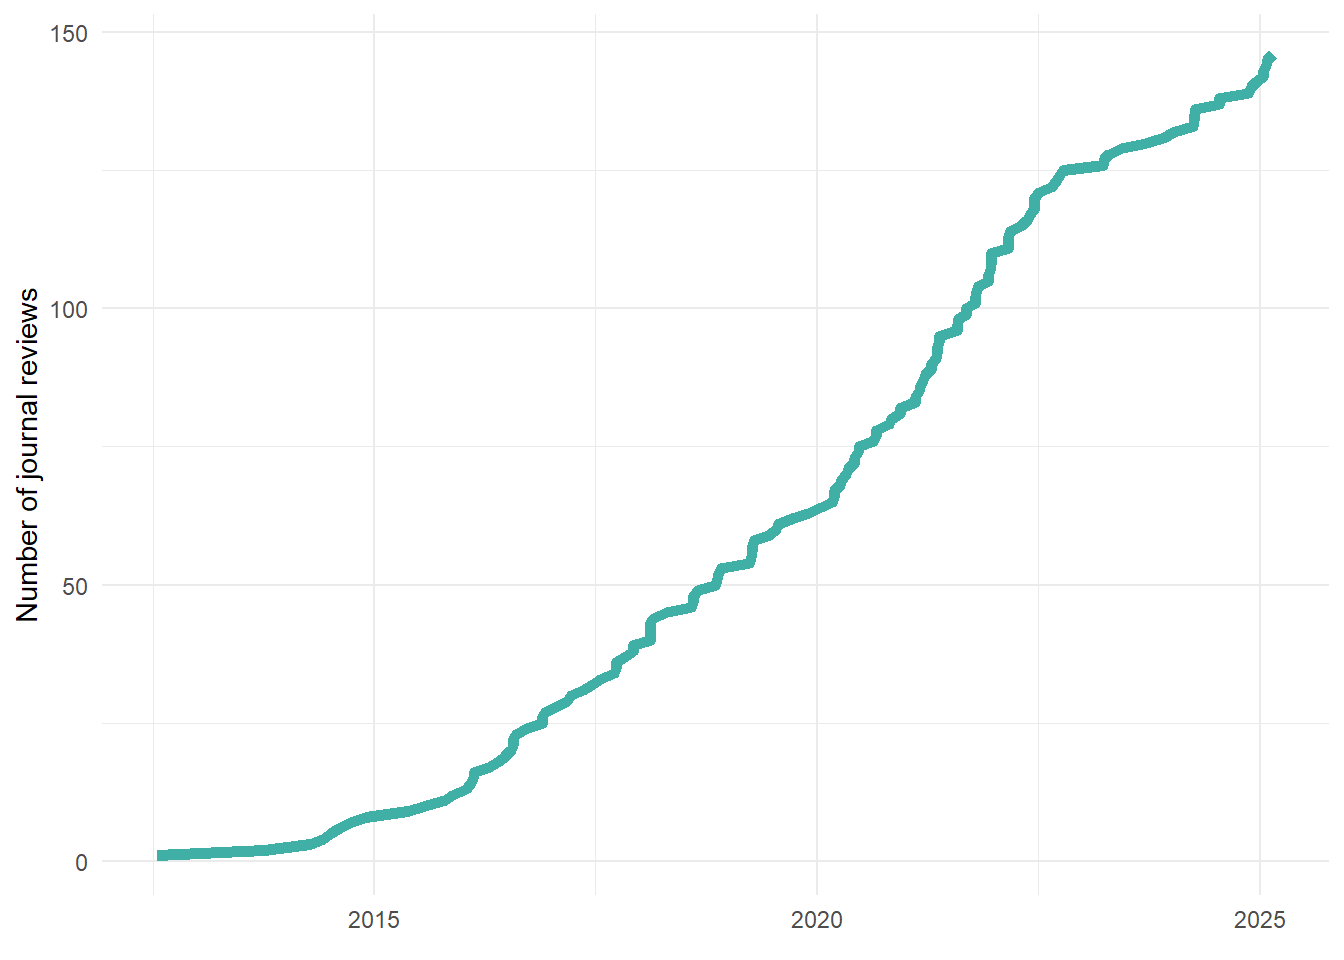
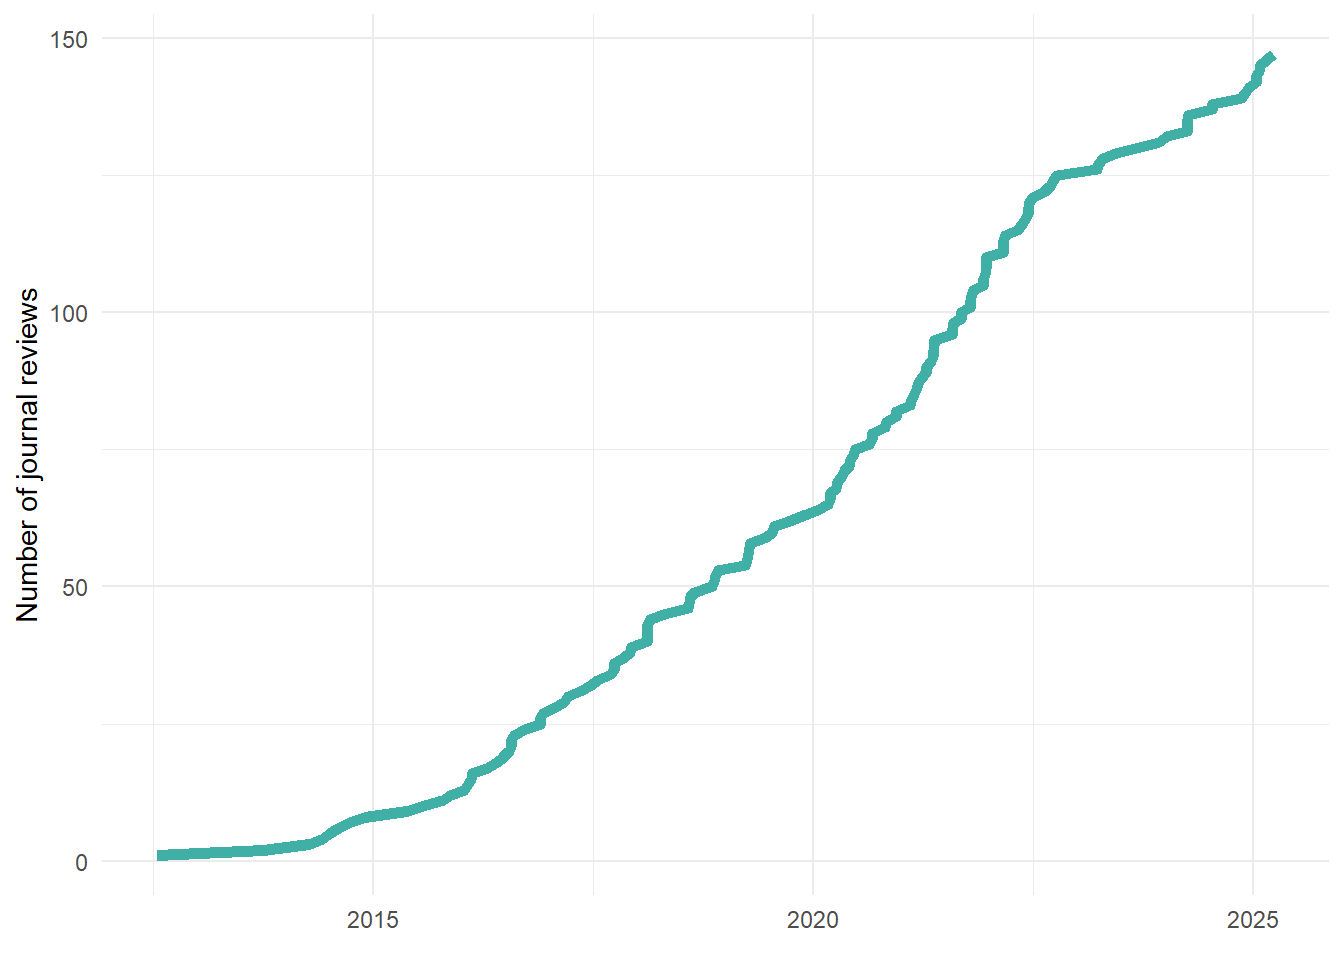
Reviews

diff --git a/content/other/review/posta18478fd4f6.tmp.html b/content/other/review/posta18478fd4f6.tmp.html
@@ -1,0 +1,15 @@
+<p>Like many academics, I spend some of my time reviewing submissions for academic journals, publishers, and funding bodies. I also like measuring things and keeping track of them, even if there’s no point in doing so.<a href="#fn1" class="footnote-ref" id="fnref1"><sup>1</sup></a> I think it can be useful to share this sort of information – no one really knows how much reviewing other people do, which makes it hard to know if you are doing a lot or a little of something. I have no idea if I do more or less reviewing than most people in my field – I know some who do more, but other who do less. In any case, here is a brief record of the reviews I have done during my career.</p>
+<p>I reviewed my first paper for a journal in 2012, and since then I have reviewed 147 submissions for 48 different journals. That works out as about 11.6 reviews per year since I started reviewing, and 16.1 per year in the last five years.</p>
+<p>Here’s a plot of how many reviews I’ve done over time:</p>
+<p><img src="index_files/figure-html/unnamed-chunk-2-1.png" width="672" /></p>
+<p>And here are the ten journals I’ve reviewed for the most:</p>
+<p><img src="index_files/figure-html/unnamed-chunk-3-1.png" width="672" /></p>
+<p>I’ve also reviewed seven book proposals for four different publishers, and six grant proposals for four different funding bodies.</p>
+<p>I’m almost always happy to review things if they are related to something I know about, so if you’re an editor looking for someone to review something, please <a href="/contact/">get in touch</a> – especially if you work in publishing and will give me free books in return for a review. I love books.<a href="#fn2" class="footnote-ref" id="fnref2"><sup>2</sup></a></p>
+<div class="footnotes footnotes-end-of-document">
+<hr />
+<ol>
+<li id="fn1"><p>See also: keeping track of various metrics on my smart watch and my <a href="https://www.vivino.com/users/chris.prosser" target="_blank">700+ wine ratings on Vivino </a>. <br><br>When my eldest daughter was born I kept track of things like feeding, naps, and sleep. Once I had enough data I tried to do some analysis to see what factors led to more sleep. Unfortunately it turns out babies are entirely random processes.<a href="#fnref1" class="footnote-back">↩</a></p></li>
+<li id="fn2"><p>I worked in a bookshop for five years while I was a student, which has left me with the habit of buying more books than I will ever have time to read, something you will discover for yourself if you ever come to my house or office.<br><br> A couple of years ago I started pointless keeping track of the books I read for pleasure on the Story Graph, so if you want to know what I’ve been reading lately, <a href="https://app.thestorygraph.com/profile/caprosser" target="_blank">take a look</a>. Also feel free to talk to me about any of the books I’ve read, I love talking about books.<a href="#fnref2" class="footnote-back">↩</a></p></li>
+</ol>
+</div>

diff --git a/public/other/mcdougall/index.html b/public/other/mcdougall/index.html
@@ -47,7 +47,7 @@
   <meta itemprop="name" content="McDougall Trust">
   <meta itemprop="description" content="In 2025 I became one of the trustees of the McDougall Trust, a small charity which exists to advance knowledge and understanding of electoral democracy.
 The trust:
-Owns the academic journal Representation. Funds the annual McDougall Fund Prize awarded by the Political Studies Association for a PhD thesis about elections, electoral systems and representation. Held a substantial archive of material relating to elections and electoral reform, including the earliest records of the Proportional Representation Society and the Electoral Reform Society. Most of the material was recently transferred to the Modern Records Centre at the University of Warwick. Encourages, supports, and provids research about electoral democracy. You can read more about us on the McDougall Trust website.">
+Owns the academic journal Representation. Funds the annual McDougall Fund Prize awarded by the Political Studies Association for a PhD thesis about elections, electoral systems and representation. Held a substantial archive of material relating to elections and electoral reform, including the earliest records of the Proportional Representation Society and the Electoral Reform Society. Most of the material was recently transferred to the Modern Records Centre at the University of Warwick. Encourages, supports, and provides research about electoral democracy. You can read more about us on the McDougall Trust website.">
   <meta itemprop="datePublished" content="2025-01-08T00:00:00+00:00">
   <meta itemprop="dateModified" content="2025-01-08T00:00:00+00:00">
   <meta itemprop="wordCount" content="116">
@@ -148,7 +148,7 @@ Owns the academic journal Representation. Funds the annual McDougall Fund Prize 
 <li>Owns the academic journal <a href="https://www.tandfonline.com/journals/rrep20/about-this-journal" target="_blank"><em>Representation</em></a>.</li>
 <li>Funds the annual McDougall Fund Prize awarded by the Political Studies Association for a PhD thesis about elections, electoral systems and representation.</li>
 <li>Held a substantial archive of material relating to elections and electoral reform, including the earliest records of the Proportional Representation Society and the Electoral Reform Society. Most of the material was recently transferred to the <a href="https://warwick.ac.uk/services/library/mrc/news/?newsItem=8a1785d78ce92907018d3b388e9962de" target="_blank">Modern Records Centre</a> at the University of Warwick.</li>
-<li>Encourages, supports, and provids research about electoral democracy.</li>
+<li>Encourages, supports, and provides research about electoral democracy.</li>
 </ul>
 <p>You can read more about us on the <a href="https://www.mcdougall.org.uk/" target="_blank">McDougall Trust website</a>.</p>
 

diff --git a/public/other/review/index.html b/public/other/review/index.html
@@ -141,7 +141,7 @@
       </header>
       <section class="post-body pt5 pb4">
         <p>Like many academics, I spend some of my time reviewing submissions for academic journals, publishers, and funding bodies. I also like measuring things and keeping track of them, even if there&rsquo;s no point in doing so.<sup id="fnref:1"><a href="#fn:1" class="footnote-ref" role="doc-noteref">1</a></sup> I think it can be useful to share this sort of information &ndash; no one really knows how much reviewing other people do, which makes it hard to know if you are doing a lot or a little of something. I have no idea if I do more or less reviewing than most people in my field &ndash; I know some who do more, but other who do less. In any case, here is a brief record of the reviews I have done during my career.</p>
-<p>I reviewed my first paper for a journal in 2012, and since then I have reviewed  146 submissions for 47 different journals. That works out as about 11.6 reviews per year since I started reviewing, and 16.5 per year in the last five years.</p>
+<p>I reviewed my first paper for a journal in 2012, and since then I have reviewed  147 submissions for 48 different journals. That works out as about 11.6 reviews per year since I started reviewing, and 16.1 per year in the last five years.</p>
 <p>Here&rsquo;s a plot of how many reviews I&rsquo;ve done over time:</p>
 <img src="/other/review/index_files/figure-html/unnamed-chunk-2-1.png" width="672" />
 <p>And here are the ten journals I&rsquo;ve reviewed for the most:</p>
